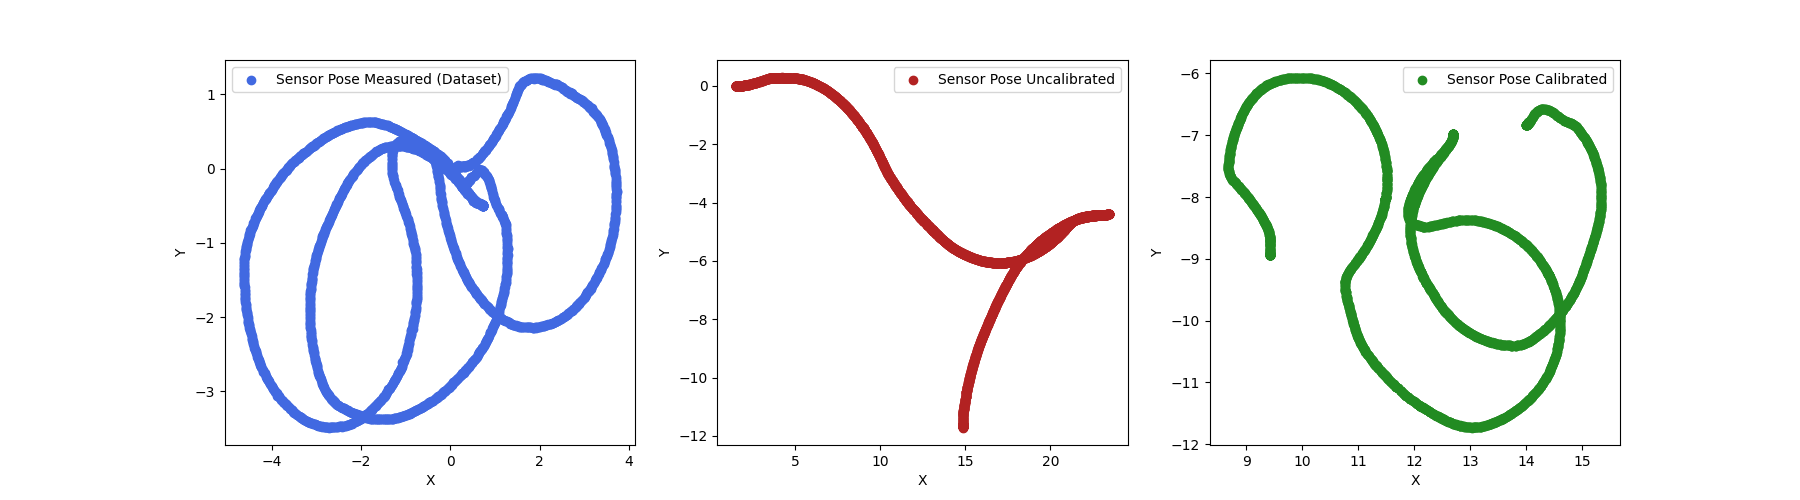
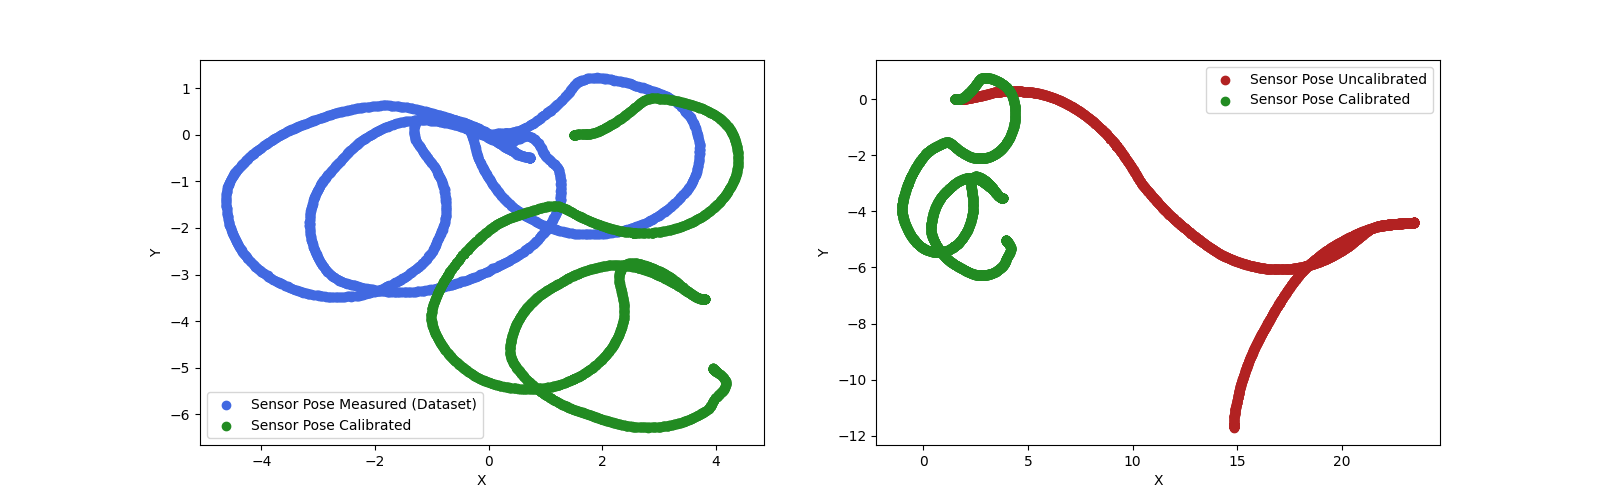
small changes to the number of iterations + new plots

diff --git a/TricycleRobotCalibration/Calibration/Least_Squares.py b/TricycleRobotCalibration/Calibration/Least_Squares.py
@@ -236,11 +236,11 @@ class LS:
                 b += self.Jacobian.T @ self.omega @ self.error.reshape(-1, 1)
                 chi_iteration += self.error.T @ self.error
 
-                self.robot.update_pose(delta_x)
+                # self.robot.update_pose(delta_x)
 
             chi_square[i] = chi_iteration
 
-            H += 5*np.diag([0.1, 0.1, 0.1, 0.1, 0.1, 0.1, 0.1]) # Regularization factor ???
+            H += 3*np.diag([0.1, 0.1, 0.1, 0.1, 0.1, 0.1, 0.1]) # Regularization factor ???
 
             try:
                 # converge faster bu has singularity problems
@@ -265,14 +265,14 @@ class LS:
             print(new_state)
             print(f"Chi iteration: {chi_iteration}")
     
-        return new_state
+        return new_state, chi_square
 
 if __name__ == "__main__":
     print("Start Least Squares")
 
     algo = LS(initial_pose=Pose(0.0, 0.0, 0.0), data_path=DATASET_PATH)
 
-    result = algo.run()
+    result, chi_square = algo.run()
     print(f"Result {result}")
 
     sensor_calibrated = np.zeros((DATA_SIZE-1, 2))
@@ -320,6 +320,39 @@ if __name__ == "__main__":
     fig.set_figheight(5)
     fig.set_figwidth(18)
 
+    plt.savefig(PICS_PATH / "sensor_representations.png")
+    # plt.show()
+    plt.close()
+
+    fig, axs = plt.subplots(1,2)
+
+    axs[0].scatter(algo.dataset.sensor_poses[:, 0], algo.dataset.sensor_poses[:, 1], color="royalblue", label="Sensor Pose Measured (Dataset)")
+    axs[0].scatter(sensor_calibrated[:, 0], sensor_calibrated[:, 1], color="forestgreen", label="Sensor Pose Calibrated")
+    
+    axs[1].scatter(sensor_uncalibrated[:, 0], sensor_uncalibrated[:, 1], color="firebrick", label="Sensor Pose Uncalibrated")
+    axs[1].scatter(sensor_calibrated[:, 0], sensor_calibrated[:, 1], color="forestgreen", label="Sensor Pose Calibrated")
+
+    axs[0].legend()
+    axs[1].legend()
+
+    axs[0].set_xlabel("X")
+    axs[0].set_ylabel("Y")
+
+    axs[1].set_xlabel("X")
+    axs[1].set_ylabel("Y")
+    fig.set_figheight(5)
+    fig.set_figwidth(16)
+
     plt.savefig(PICS_PATH / "sensor_calibration.png")
+    plt.show()
+    plt.close()
+
+    print(np.arange(NUM_ITERATIONS).shape, chi_square.shape)
+    plt.plot(chi_square, color="firebrick")
+    plt.scatter(np.arange(NUM_ITERATIONS), chi_square, color="darkorange", label="Error")
+    plt.legend()
+    plt.xlabel("Time")
+    plt.ylabel("Error")
+    plt.savefig(PICS_PATH / "chi_square.png")
     plt.show()
     plt.close()

diff --git a/TricycleRobotCalibration/Utils/Utils.py b/TricycleRobotCalibration/Utils/Utils.py
@@ -203,7 +203,7 @@ if __name__ == "__main__":
     fig, axs = plt.subplots(1,2)
 
     axs[0].scatter(dataset.robot_poses[:, 0], dataset.robot_poses[:, 1], color="royalblue", label="Robot Pose")
-    axs[1].scatter(dataset.sensor_poses[:, 0], dataset.sensor_poses[:, 1], color="darkorange", label="Sensor Pose without Calibration")
+    axs[1].scatter(dataset.sensor_poses[:, 0], dataset.sensor_poses[:, 1], color="darkorange", label="Sensor Pose Measured")
 
     axs[0].legend()
     axs[1].legend()
